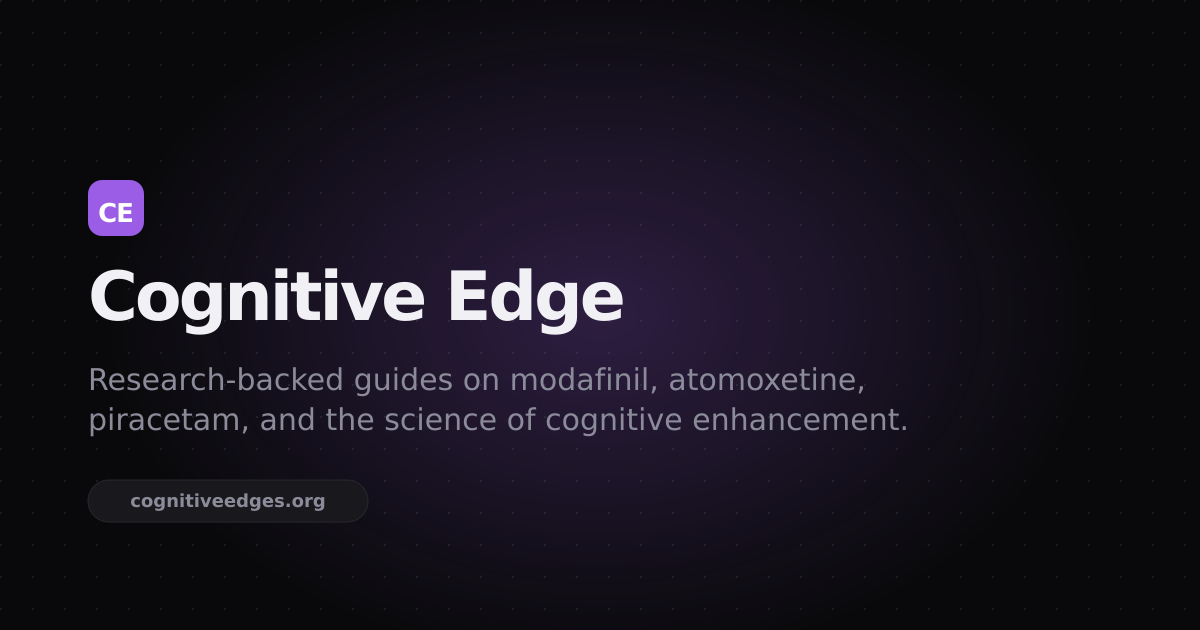
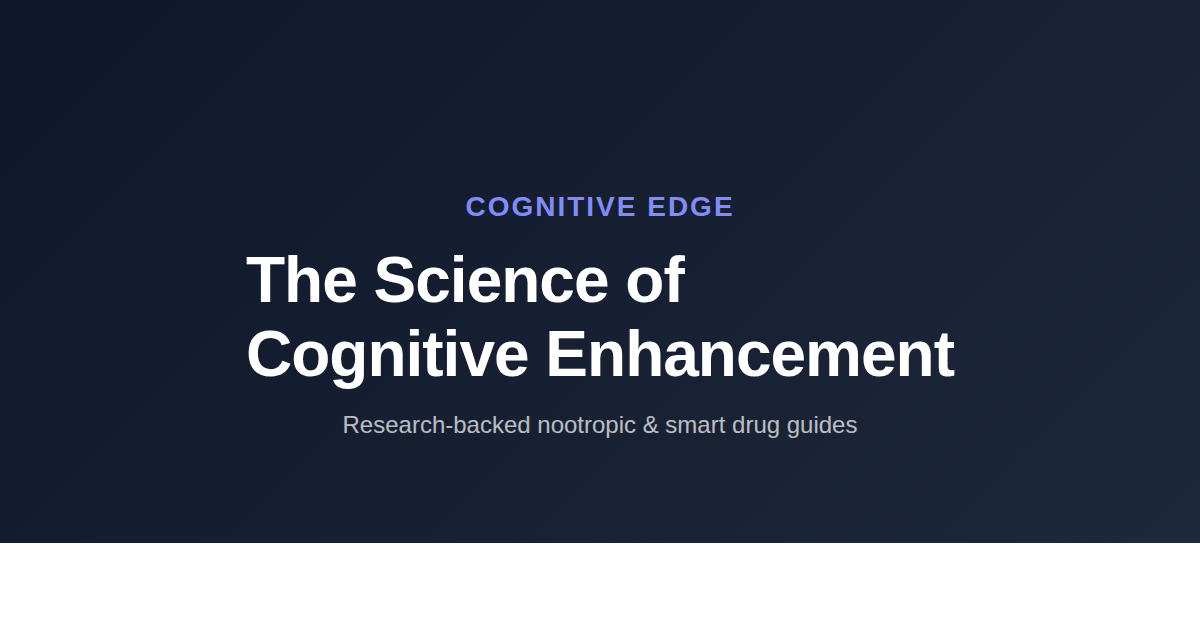
Add cross-site links, FAQ schema, and updated og-image
- Added contextual cross-links to 6 articles pointing to modafinilguide
  and nootroblog where topics overlap
- Added FAQPage schema to 6 articles (creatine, bacopa, phenylpiracetam,
  modafinil-adhd, noopept, NAD+)
- Updated og-image.png with proper 1200x630 branded social image

diff --git a/posts/modafinil-adhd.html b/posts/modafinil-adhd.html
@@ -51,6 +51,18 @@
     ]
   }
   </script>
+  <script type="application/ld+json">
+  {
+    "@context": "https://schema.org",
+    "@type": "FAQPage",
+    "mainEntity": [
+      {"@type": "Question", "name": "Is modafinil FDA-approved for ADHD?", "acceptedAnswer": {"@type": "Answer", "text": "No, modafinil is not FDA-approved for ADHD. The FDA denied the application in 2006 due to a safety concern (a single case of Stevens-Johnson syndrome in paediatric trials), not because it lacked efficacy. The clinical trial data showing benefit was not disputed. It is widely prescribed off-label by psychiatrists for ADHD."}},
+      {"@type": "Question", "name": "How does modafinil compare to Adderall for ADHD?", "acceptedAnswer": {"@type": "Answer", "text": "Adderall is more powerful for ADHD symptom relief but carries more side effects, higher abuse potential (Schedule II vs Schedule IV), significant appetite suppression, and a crash on comedown. Modafinil is softer, lasts 12-15 hours, has minimal cardiovascular effects, and no crash. It works best for mild-to-moderate ADHD."}},
+      {"@type": "Question", "name": "What is the typical modafinil dose for ADHD?", "acceptedAnswer": {"@type": "Answer", "text": "The typical adult dose is 100-200 mg once daily, taken first thing in the morning. Many ADHD patients find 100 mg sufficient. The full 200 mg dose can increase insomnia and anxiety risk. Afternoon dosing should be avoided due to modafinil's 12-15 hour half-life."}},
+      {"@type": "Question", "name": "Who should consider modafinil for ADHD?", "acceptedAnswer": {"@type": "Answer", "text": "Modafinil is most appropriate for adults who find stimulants like Adderall too harsh, have cardiovascular concerns, want lower abuse potential, or are in jurisdictions where amphetamines are restricted. It should be considered after first-line treatments have been tried, and always discussed with a psychiatrist."}}
+    ]
+  }
+  </script>
 </head>
 <body>
 
@@ -192,7 +204,7 @@
 
     <h2>The bottom line</h2>
     <p>The evidence for modafinil in ADHD is real but nuanced. Multiple RCTs demonstrate efficacy, the mechanistic basis is sound, and it is widely used off-label by psychiatrists. It works for many patients — but less consistently than amphetamines for severe cases, and it lacks the FDA endorsement that provides institutional confidence.</p>
-    <p>For adults with ADHD who want a softer alternative to stimulants — or who cannot tolerate them — the evidence warrants a conversation with your doctor. Just go in with realistic expectations: modafinil is a useful tool, not a miracle drug, and it works best for mild-to-moderate inattention rather than severe combined-type ADHD.</p>
+    <p>For adults with ADHD who want a softer alternative to stimulants — or who cannot tolerate them — the evidence warrants a conversation with your doctor. Just go in with realistic expectations: modafinil is a useful tool, not a miracle drug, and it works best for mild-to-moderate inattention rather than severe combined-type ADHD. For a deeper look at the clinical trial data, see this <a href="https://modafinilguide.org/posts/modafinil-for-adhd.html">modafinil for ADHD research</a> overview.</p>
 
     <div class="callout callout-danger">
       <p class="callout-title">Medical disclaimer</p>

diff --git a/posts/nad-precursors-cognitive-performance.html b/posts/nad-precursors-cognitive-performance.html
@@ -51,6 +51,18 @@
     ]
   }
   </script>
+  <script type="application/ld+json">
+  {
+    "@context": "https://schema.org",
+    "@type": "FAQPage",
+    "mainEntity": [
+      {"@type": "Question", "name": "What is the difference between NMN and NR?", "acceptedAnswer": {"@type": "Answer", "text": "NMN (nicotinamide mononucleotide) is the immediate precursor to NAD+ requiring one enzymatic step for conversion. NR (nicotinamide riboside) sits one step further back and must first convert to NMN. Both effectively raise blood NAD+ levels in human trials at comparable doses (250-500 mg). NR has more published human clinical data, while NMN is one step closer to NAD+ in the pathway."}},
+      {"@type": "Question", "name": "How much NMN or NR should I take for cognitive benefits?", "acceptedAnswer": {"@type": "Answer", "text": "For NR, 250-500 mg per day is recommended, with 500 mg being the most common effective dose in clinical trials. For NMN, 250-500 mg per day, with 250 mg as the minimum effective dose. Take in the morning to align with the natural circadian NAD+ cycle. No cycling is needed as NAD+ is an endogenous molecule."}},
+      {"@type": "Question", "name": "Who benefits most from NAD+ precursor supplementation?", "acceptedAnswer": {"@type": "Answer", "text": "Adults over 40 benefit most, as NAD+ levels decline 40-60% between ages 40 and 70. People experiencing age-related mental fatigue, those with poor sleep quality, and individuals under high metabolic stress also stand to gain. Healthy adults under 35 with good lifestyle habits are lower priority candidates."}},
+      {"@type": "Question", "name": "Are NAD+ precursors safe to take long term?", "acceptedAnswer": {"@type": "Answer", "text": "NAD+ precursors have a clean safety profile across published human trials. NR has been granted GRAS status by the FDA. Common side effects are mild and infrequent, including occasional nausea at high doses and mild headache during the first week. Individuals undergoing cancer treatment should consult their oncologist before supplementing."}}
+    ]
+  }
+  </script>
 </head>
 <body>
 

diff --git a/posts/modafinil-guide.html b/posts/modafinil-guide.html
@@ -97,7 +97,7 @@
 
     <h2>What modafinil is and isn't</h2>
     <p>Modafinil is a wakefulness-promoting agent — not a stimulant in the traditional sense. It doesn't flood your brain with dopamine the way amphetamines do, and it doesn't cause the cardiovascular surge associated with cocaine or high-dose caffeine. It's Schedule IV in the US (low abuse potential), and it's been prescribed for narcolepsy, shift work disorder, and sleep apnoea for over two decades.</p>
-    <p>The off-label cognitive use case is different: people with normal sleep using it for extended focus, reduced fatigue, and sharper decision-making. The evidence here is real — but more nuanced than the "limitless pill" framing suggests.</p>
+    <p>The off-label cognitive use case is different: people with normal sleep using it for extended focus, reduced fatigue, and sharper decision-making. The evidence here is real — but more nuanced than the "limitless pill" framing suggests. If you're considering trying it for the first time, see our <a href="https://modafinilguide.org/posts/modafinil-first-time.html">first-time modafinil guide</a> for a step-by-step approach.</p>
 
     <h2>Mechanism of action</h2>
     <p>Modafinil's mechanism is genuinely complex and still not fully resolved. The primary established actions are:</p>
@@ -140,7 +140,7 @@
       </table>
     </div>
 
-    <p>Timing matters considerably. Modafinil has a half-life of 12–15 hours. Taking it after noon makes sleep that night difficult. Most users take it at or shortly after waking, and on days when normal sleep timing is needed.</p>
+    <p>Timing matters considerably. Modafinil has a half-life of 12–15 hours. Taking it after noon makes sleep that night difficult. Most users take it at or shortly after waking, and on days when normal sleep timing is needed. For a <a href="https://nootroblog.com/posts/modafinil-dosage-guide.html">detailed dosage breakdown</a> including split-dose protocols, see our companion guide.</p>
 
     <h2>Side effects and risks</h2>
     <p>Modafinil is generally well-tolerated, but side effects are real:</p>

diff --git a/posts/bacopa-monnieri-guide.html b/posts/bacopa-monnieri-guide.html
@@ -51,6 +51,18 @@
     ]
   }
   </script>
+  <script type="application/ld+json">
+  {
+    "@context": "https://schema.org",
+    "@type": "FAQPage",
+    "mainEntity": [
+      {"@type": "Question", "name": "How long does bacopa monnieri take to work?", "acceptedAnswer": {"@type": "Answer", "text": "Bacopa monnieri takes 8-12 weeks of consistent daily use to produce noticeable cognitive effects. Studies measuring at 4-5 weeks found no significant improvement. The delay is because bacopa works by increasing dendritic branching in the hippocampus, which is a structural change that requires sustained supplementation."}},
+      {"@type": "Question", "name": "What is the correct dosage for bacopa monnieri?", "acceptedAnswer": {"@type": "Answer", "text": "The clinically supported dose is 300 mg per day of a standardised extract containing at least 55% bacosides. Take it with a meal containing fat, as bacosides are fat-soluble and absorption improves significantly with dietary fat. Some studies use 450 mg per day with slightly stronger effects."}},
+      {"@type": "Question", "name": "What are the side effects of bacopa monnieri?", "acceptedAnswer": {"@type": "Answer", "text": "The most common side effect is GI discomfort including nausea, stomach cramps, and bloating, which can be reduced by taking bacopa with food. Some users experience fatigue and drowsiness initially, dry mouth, or rarely reduced motivation. No serious adverse events have been reported in clinical trials at standard doses."}},
+      {"@type": "Question", "name": "Is bacopa monnieri better than lion's mane for memory?", "acceptedAnswer": {"@type": "Answer", "text": "Bacopa has a stronger clinical evidence base for memory in healthy adults, with 9+ well-designed RCTs showing improved memory consolidation and verbal learning. Lion's mane has a more interesting mechanism (NGF stimulation) but less robust human data. They work through different pathways and can be taken together."}}
+    ]
+  }
+  </script>
 </head>
 <body>
 

diff --git a/posts/phenylpiracetam-guide.html b/posts/phenylpiracetam-guide.html
@@ -51,6 +51,18 @@
     ]
   }
   </script>
+  <script type="application/ld+json">
+  {
+    "@context": "https://schema.org",
+    "@type": "FAQPage",
+    "mainEntity": [
+      {"@type": "Question", "name": "What is the recommended dosage for phenylpiracetam?", "acceptedAnswer": {"@type": "Answer", "text": "The standard dose is 100 mg taken in the morning. The high dose is 200 mg per day, either as a single dose or split into two 100 mg doses. Effects onset within 30-60 minutes and last 4-6 hours. Do not exceed 200 mg per day as side effects increase disproportionately to benefit."}},
+      {"@type": "Question", "name": "How fast does phenylpiracetam tolerance build?", "acceptedAnswer": {"@type": "Answer", "text": "Phenylpiracetam tolerance develops extremely fast, sometimes within 2-3 consecutive days of use. After a week of daily use, the stimulant effects are largely gone. Most experienced users dose no more than 2-3 times per week with at least one day off between doses to maintain efficacy."}},
+      {"@type": "Question", "name": "How does phenylpiracetam compare to piracetam?", "acceptedAnswer": {"@type": "Answer", "text": "Phenylpiracetam is 20-60 times more potent than piracetam by weight, requires only 100-200 mg versus 1,200-4,800 mg, and produces pronounced stimulant and motivational effects. However, piracetam can be used daily without tolerance issues, while phenylpiracetam requires strict cycling. Piracetam also has far more Western clinical evidence."}},
+      {"@type": "Question", "name": "Why is phenylpiracetam banned by WADA?", "acceptedAnswer": {"@type": "Answer", "text": "WADA banned phenylpiracetam because it genuinely enhances both cognitive and physical performance. It increases dopamine and norepinephrine availability, improving motivation, endurance, and cold tolerance. Olympic biathlete Olga Pyleva was stripped of her silver medal in 2006 after testing positive for it."}}
+    ]
+  }
+  </script>
 </head>
 <body>
 

diff --git a/posts/noopept-guide.html b/posts/noopept-guide.html
@@ -51,6 +51,18 @@
     ]
   }
   </script>
+  <script type="application/ld+json">
+  {
+    "@context": "https://schema.org",
+    "@type": "FAQPage",
+    "mainEntity": [
+      {"@type": "Question", "name": "What is the correct Noopept dosage?", "acceptedAnswer": {"@type": "Answer", "text": "The standard dose is 10 mg twice daily (morning and early afternoon), with an upper range of 30 mg per day split into 2-3 doses. Sublingual administration is preferred over oral for better bioavailability. Start at 10 mg once daily for the first 3-5 days to assess response. Do not exceed 30 mg per day."}},
+      {"@type": "Question", "name": "Do I need to take choline with Noopept?", "acceptedAnswer": {"@type": "Answer", "text": "Yes, choline supplementation is essential when using Noopept. It increases acetylcholine turnover, and without a choline source you will experience headaches, reduced efficacy, and flat cognitive quality. Take 300 mg Alpha-GPC or 250-500 mg citicoline per Noopept dose."}},
+      {"@type": "Question", "name": "Is Noopept a racetam?", "acceptedAnswer": {"@type": "Answer", "text": "No, despite being frequently grouped with racetams, Noopept is not technically a racetam. It lacks the 2-pyrrolidone nucleus that defines the racetam class. It is classified as a peptide-derived nootropic — a dipeptide analogue of piracetam that is structurally distinct but mechanistically related."}},
+      {"@type": "Question", "name": "How does Noopept compare to piracetam?", "acceptedAnswer": {"@type": "Answer", "text": "Noopept is roughly 1,000 times more potent than piracetam by weight, requiring only 10-30 mg per day versus 1,200-4,800 mg. It uniquely upregulates both NGF and BDNF in the hippocampus and has anxiolytic properties. However, piracetam has a far stronger Western clinical evidence base with decades of RCTs."}}
+    ]
+  }
+  </script>
 </head>
 <body>
 

diff --git a/posts/sleep-cognitive-performance.html b/posts/sleep-cognitive-performance.html
@@ -227,7 +227,7 @@
     </ul>
 
     <h2>Supplements that support sleep quality: what the evidence shows</h2>
-    <p>A few compounds have genuine, replicated evidence for improving sleep quality. None are as impactful as the behavioural interventions above, but they can meaningfully contribute when the fundamentals are already in place.</p>
+    <p>A few compounds have genuine, replicated evidence for improving sleep quality. None are as impactful as the behavioural interventions above, but they can meaningfully contribute when the fundamentals are already in place. For a broader look at supplementation strategies, see this guide on <a href="https://nootroblog.com/posts/nootropics-sleep-recovery.html">nootropics for sleep and recovery</a>.</p>
     <ul>
       <li><strong>Magnesium L-threonate:</strong> The only magnesium form demonstrated to cross the blood-brain barrier and increase brain magnesium levels (Slutsky et al., 2010). A clinical trial found improvements in sleep quality, sleep efficiency, and morning alertness in older adults at a dose of 144mg elemental magnesium (from 2g magnesium L-threonate). The mechanism likely involves GABA receptor potentiation and NMDA receptor modulation. See our <a href="magnesium-cognition-guide.html">magnesium &amp; cognition guide</a> for a detailed analysis of forms and dosing.</li>
       <li><strong>Glycine:</strong> 3g taken before bedtime has been shown in multiple trials (Bannai et al., 2012; Inagawa et al., 2006) to reduce core body temperature, decrease sleep onset latency, and improve subjective sleep quality without next-day sedation. The mechanism involves peripheral vasodilation (which facilitates the core temperature drop needed for sleep onset) and possible NMDA receptor modulation. Effect sizes are modest (d = 0.3–0.5) but consistent, and the safety profile is excellent.</li>

diff --git a/posts/creatine-cognitive-guide.html b/posts/creatine-cognitive-guide.html
@@ -51,6 +51,18 @@
     ]
   }
   </script>
+  <script type="application/ld+json">
+  {
+    "@context": "https://schema.org",
+    "@type": "FAQPage",
+    "mainEntity": [
+      {"@type": "Question", "name": "Does creatine improve cognitive function?", "acceptedAnswer": {"@type": "Answer", "text": "Yes, clinical evidence shows creatine supplementation can improve working memory and processing speed, particularly in vegetarians, sleep-deprived individuals, and older adults whose brain creatine levels are suboptimal. Effects are smaller in young, well-nourished omnivores."}},
+      {"@type": "Question", "name": "How much creatine should I take for brain health?", "acceptedAnswer": {"@type": "Answer", "text": "The recommended dose is 3-5 grams of creatine monohydrate daily, taken at any time with or without food. Brain creatine stores reach saturation within 3-4 weeks at this dose. A loading phase is not required for cognitive benefits."}},
+      {"@type": "Question", "name": "Who benefits most from creatine for cognitive enhancement?", "acceptedAnswer": {"@type": "Answer", "text": "Vegetarians and vegans benefit most due to 20-30% lower baseline brain creatine levels. Sleep-deprived individuals and older adults (whose brain creatine declines with age) also show significant cognitive improvements. Healthy young omnivores see the smallest effects."}},
+      {"@type": "Question", "name": "Is creatine safe for long-term use?", "acceptedAnswer": {"@type": "Answer", "text": "Creatine monohydrate is one of the most studied supplements in existence, with studies lasting up to 5 years showing no adverse effects. There is no evidence of kidney damage in healthy individuals, liver toxicity, or hormonal disruption. People with pre-existing kidney disease should consult a physician."}}
+    ]
+  }
+  </script>
 </head>
 <body>
 

diff --git a/posts/caffeine-theanine-guide.html b/posts/caffeine-theanine-guide.html
@@ -103,7 +103,7 @@
 
     <h3>L-Theanine</h3>
     <p>L-theanine is an amino acid found naturally in tea leaves (<em>Camellia sinensis</em>), structurally similar to glutamate. Its primary mechanism is GABAergic — it promotes GABA activity, the brain's main inhibitory neurotransmitter — along with increasing glycine and reducing glutamate-mediated excitatory signalling. The net effect is anxiolysis without sedation.</p>
-    <p>EEG studies show theanine increases alpha brain wave activity — the pattern associated with relaxed, focused alertness. Unlike benzodiazepines (which also increase GABA), theanine's effect is described as "calm without drowsiness." At typical doses, it doesn't make you sleepy; it takes the edge off anxiety and promotes a quieter mental baseline.</p>
+    <p>EEG studies show theanine increases alpha brain wave activity — the pattern associated with relaxed, focused alertness. Unlike benzodiazepines (which also increase GABA), theanine's effect is described as "calm without drowsiness." At typical doses, it doesn't make you sleepy; it takes the edge off anxiety and promotes a quieter mental baseline. For more on the compound's standalone effects, see this guide on <a href="https://nootroblog.com/posts/l-theanine-guide.html">L-theanine benefits and dosing</a>.</p>
 
     <h2>Why the combination outperforms either alone</h2>
     <p>The synergy is mechanistically intuitive: caffeine provides the alertness, focus, and dopaminergic drive; L-theanine blunts the anxiety, jitteriness, and cardiovascular side effects without reducing caffeine's cognitive benefits. They address different systems and their interaction is more complementary than additive.</p>

diff --git a/posts/nootropics-for-studying.html b/posts/nootropics-for-studying.html
@@ -131,7 +131,7 @@
     </ul>
 
     <h3>Modafinil (for long sessions, not daily)</h3>
-    <p>Modafinil is highly effective for extended study sessions where fatigue is the limiting factor. It reduces the cognitive cost of sleep deprivation and maintains decision-making quality over long periods better than any other compound studied. Medical students, law students during bar prep, and anyone facing intensive exam periods use it for this reason.</p>
+    <p>Modafinil is highly effective for extended study sessions where fatigue is the limiting factor. It reduces the cognitive cost of sleep deprivation and maintains decision-making quality over long periods better than any other compound studied. Medical students, law students during bar prep, and anyone facing intensive exam periods use it for this reason — see this dedicated guide on <a href="https://modafinilguide.org/posts/modafinil-for-studying.html">modafinil for exam preparation</a> for protocols and timing.</p>
     <p>However, it's not ideal for every study session. It can produce tunnel vision — very good for drilling one topic, less good for broad conceptual review. At higher doses it can actually impair creative associative thinking. And it makes sleeping that night significantly harder, which matters for memory consolidation.</p>
     <ul>
       <li><strong>Protocol:</strong> 100–200mg in the morning on high-demand days</li>

diff --git a/posts/piracetam-alpha-gpc-stack.html b/posts/piracetam-alpha-gpc-stack.html
@@ -112,7 +112,7 @@
     <p>When piracetam accelerates ACh turnover in the hippocampus and the supply of choline cannot keep up, the cognitive benefits of the drug diminish — and the characteristic headache appears. This is a choline deficit headache, not a piracetam side effect per se. It resolves within hours of taking sufficient choline.</p>
 
     <h3>Why Alpha-GPC specifically</h3>
-    <p>Alpha-GPC (Alpha-glycerophosphocholine) is among the most bioavailable choline precursors available. It contains choline in a phospholipid form that crosses the blood-brain barrier readily, delivers choline directly to neurons, and also contributes to phosphatidylcholine — the primary phospholipid of neuronal cell membranes.</p>
+    <p>Alpha-GPC (Alpha-glycerophosphocholine) is among the most bioavailable choline precursors available. It contains choline in a phospholipid form that crosses the blood-brain barrier readily, delivers choline directly to neurons, and also contributes to phosphatidylcholine — the primary phospholipid of neuronal cell membranes. Our <a href="https://nootroblog.com/posts/alpha-gpc-guide.html">Alpha-GPC guide</a> covers its mechanisms and standalone benefits in detail.</p>
     <p>Compared to other choline sources:</p>
     <ul>
       <li><strong>Choline bitartrate:</strong> cheap, but crosses the BBB poorly — large doses required, gastric side effects common</li>
